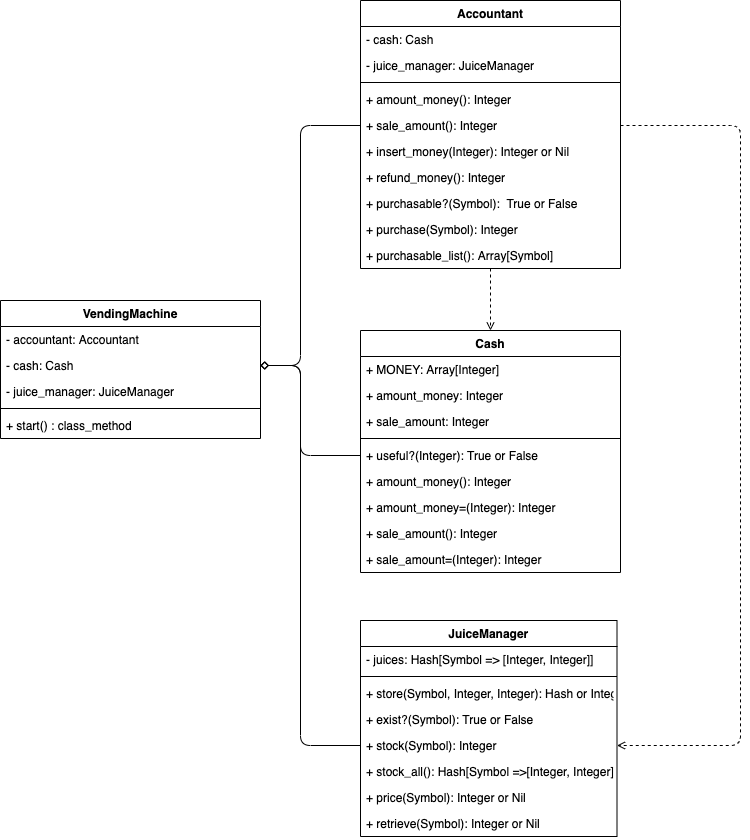
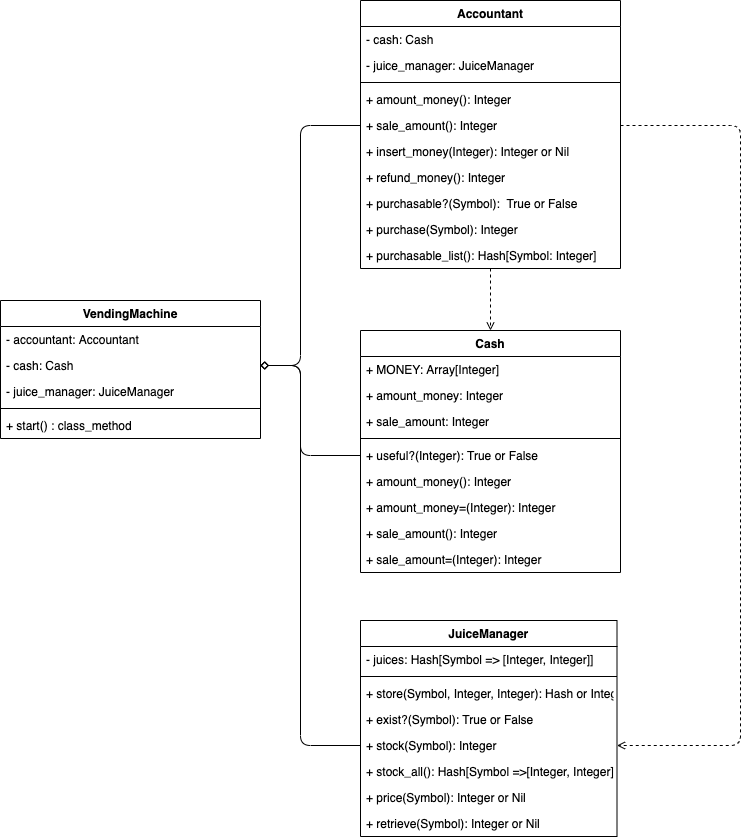
change:purchasable_listの仕様変更

diff --git a/test/accountant_test.rb b/test/accountant_test.rb
@@ -2,7 +2,6 @@ require "minitest/autorun"
 require_relative "../accountant.rb"
 require_relative "../cash.rb"
 require_relative "../juice_manager.rb"
-require_relative "../vending_machine.rb"
 
 class Accountant_Test < Minitest::Test
   def setup
@@ -53,7 +52,16 @@ class Accountant_Test < Minitest::Test
     refute @accountant.purchasable?(:grapejuice)
   end
 
-  def test_purchase_when_enough_ammuont_money_and_enough_juice
+  def test_purchasable_list_when_enough_amount_and_enough_juice
+    @accountant.insert_money(500)
+    assert_equal({:coke=>120, :water=>100, :redbull=>200}, @accountant.purchasable_list)
+  end
+
+  def test_purchasable_list_when_insufficient_amount_and_enough_juice
+    assert_equal({}, @accountant.purchasable_list)
+  end
+
+  def test_purchase_when_enough_amount_money_and_enough_juice
     juice = :coke
     @accountant.insert_money(100)
     3.times{ @accountant.insert_money(10) }
@@ -68,7 +76,7 @@ class Accountant_Test < Minitest::Test
     assert_equal 4, @juice_manager.stock(juice)
   end
 
-  def test_purchase_when_not_enough_ammuont_money_and_enough_juice
+  def test_purchase_when_not_enough_amuont_money_and_enough_juice
     juice = :coke
     @accountant.insert_money(100)
     # 購入前
@@ -82,7 +90,7 @@ class Accountant_Test < Minitest::Test
     assert_equal 5, @juice_manager.stock(juice)
   end
 
-  def test_purchase_when_enough_ammuont_money_and_not_enough_juice
+  def test_purchase_when_enough_amuont_money_and_not_enough_juice
     juice = :coke
     @accountant.insert_money(100)
     2.times{ @accountant.insert_money(10) }

diff --git a/accountant.rb b/accountant.rb
@@ -51,9 +51,10 @@ class Accountant
     end
   end
 
-  # 購入可能なドリンクをArrayで返す。
-  def purchasable_list(money)
-    stock_list = @juice_manager.stock_all
-    stock_list.keys.select{|juice| purchasable?(juice)}
+  # 購入可能なドリンクをHashで返す。
+  def purchasable_list
+    list = {}
+    @juice_manager.stock_all.each{|key, val| list[key] = val[:price] if purchasable?(key)}
+    list
   end
 end

diff --git a/test/juice_manager_test.rb b/test/juice_manager_test.rb
@@ -33,7 +33,7 @@ class JuiceManagerTest < Minitest::Test
   end
 
   def test_stock_all
-    assert_equal @jm.instance_variable_get(:@juices), @jm.stock_all
+    assert_equal({:coke=>{:price=>120, :stock=>5}, :water=>{:price=>100, :stock=>5}, :redbull=>{:price=>200, :stock=>5}}, @jm.stock_all)
   end
 
   # priceメソッドのテスト
